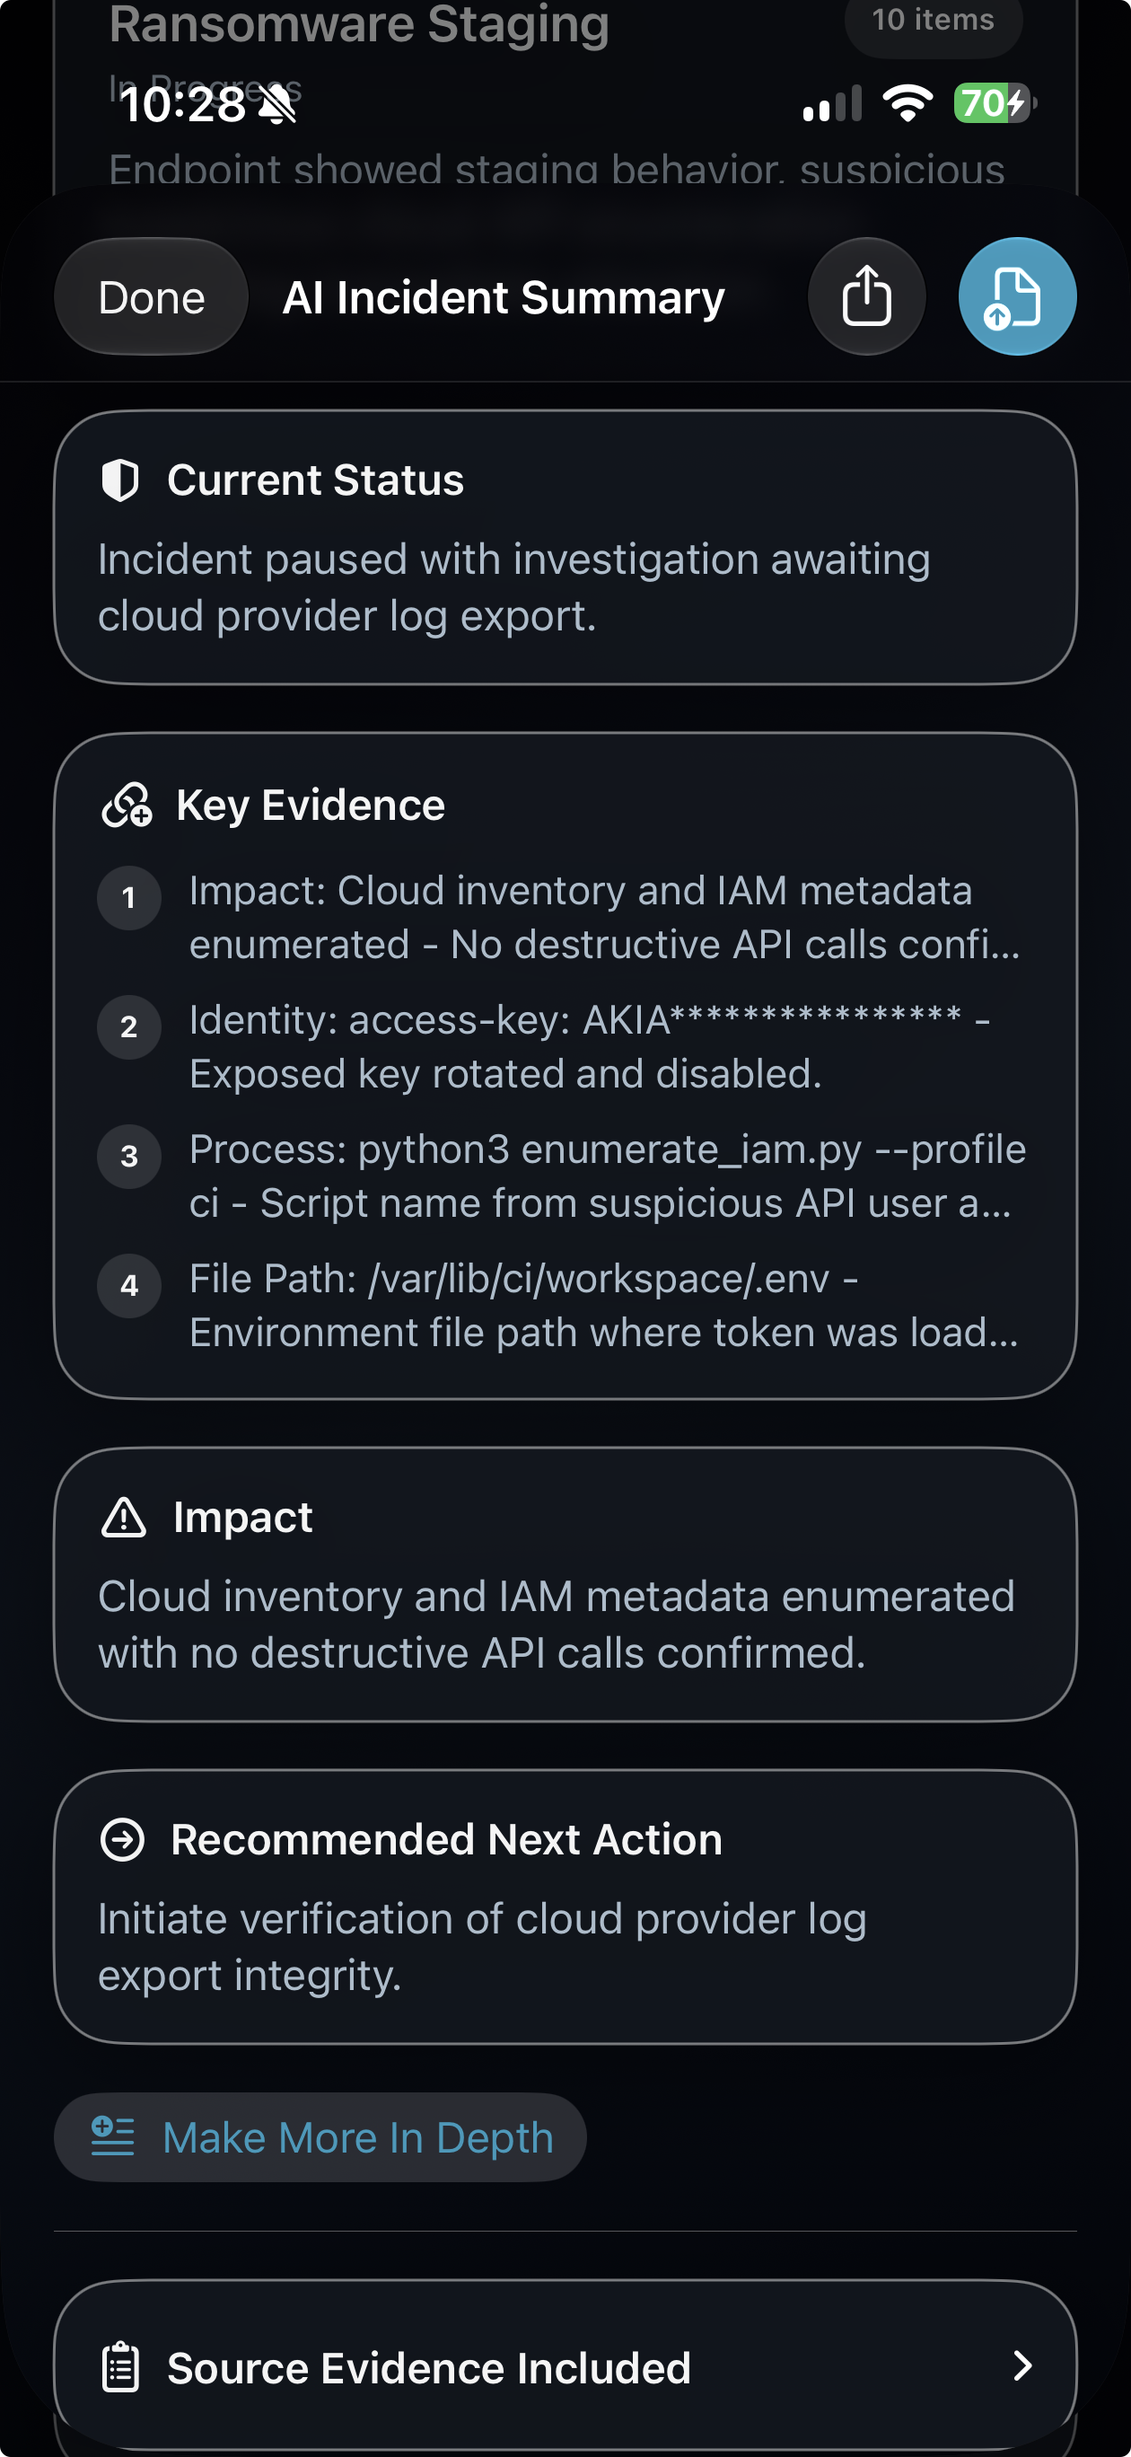
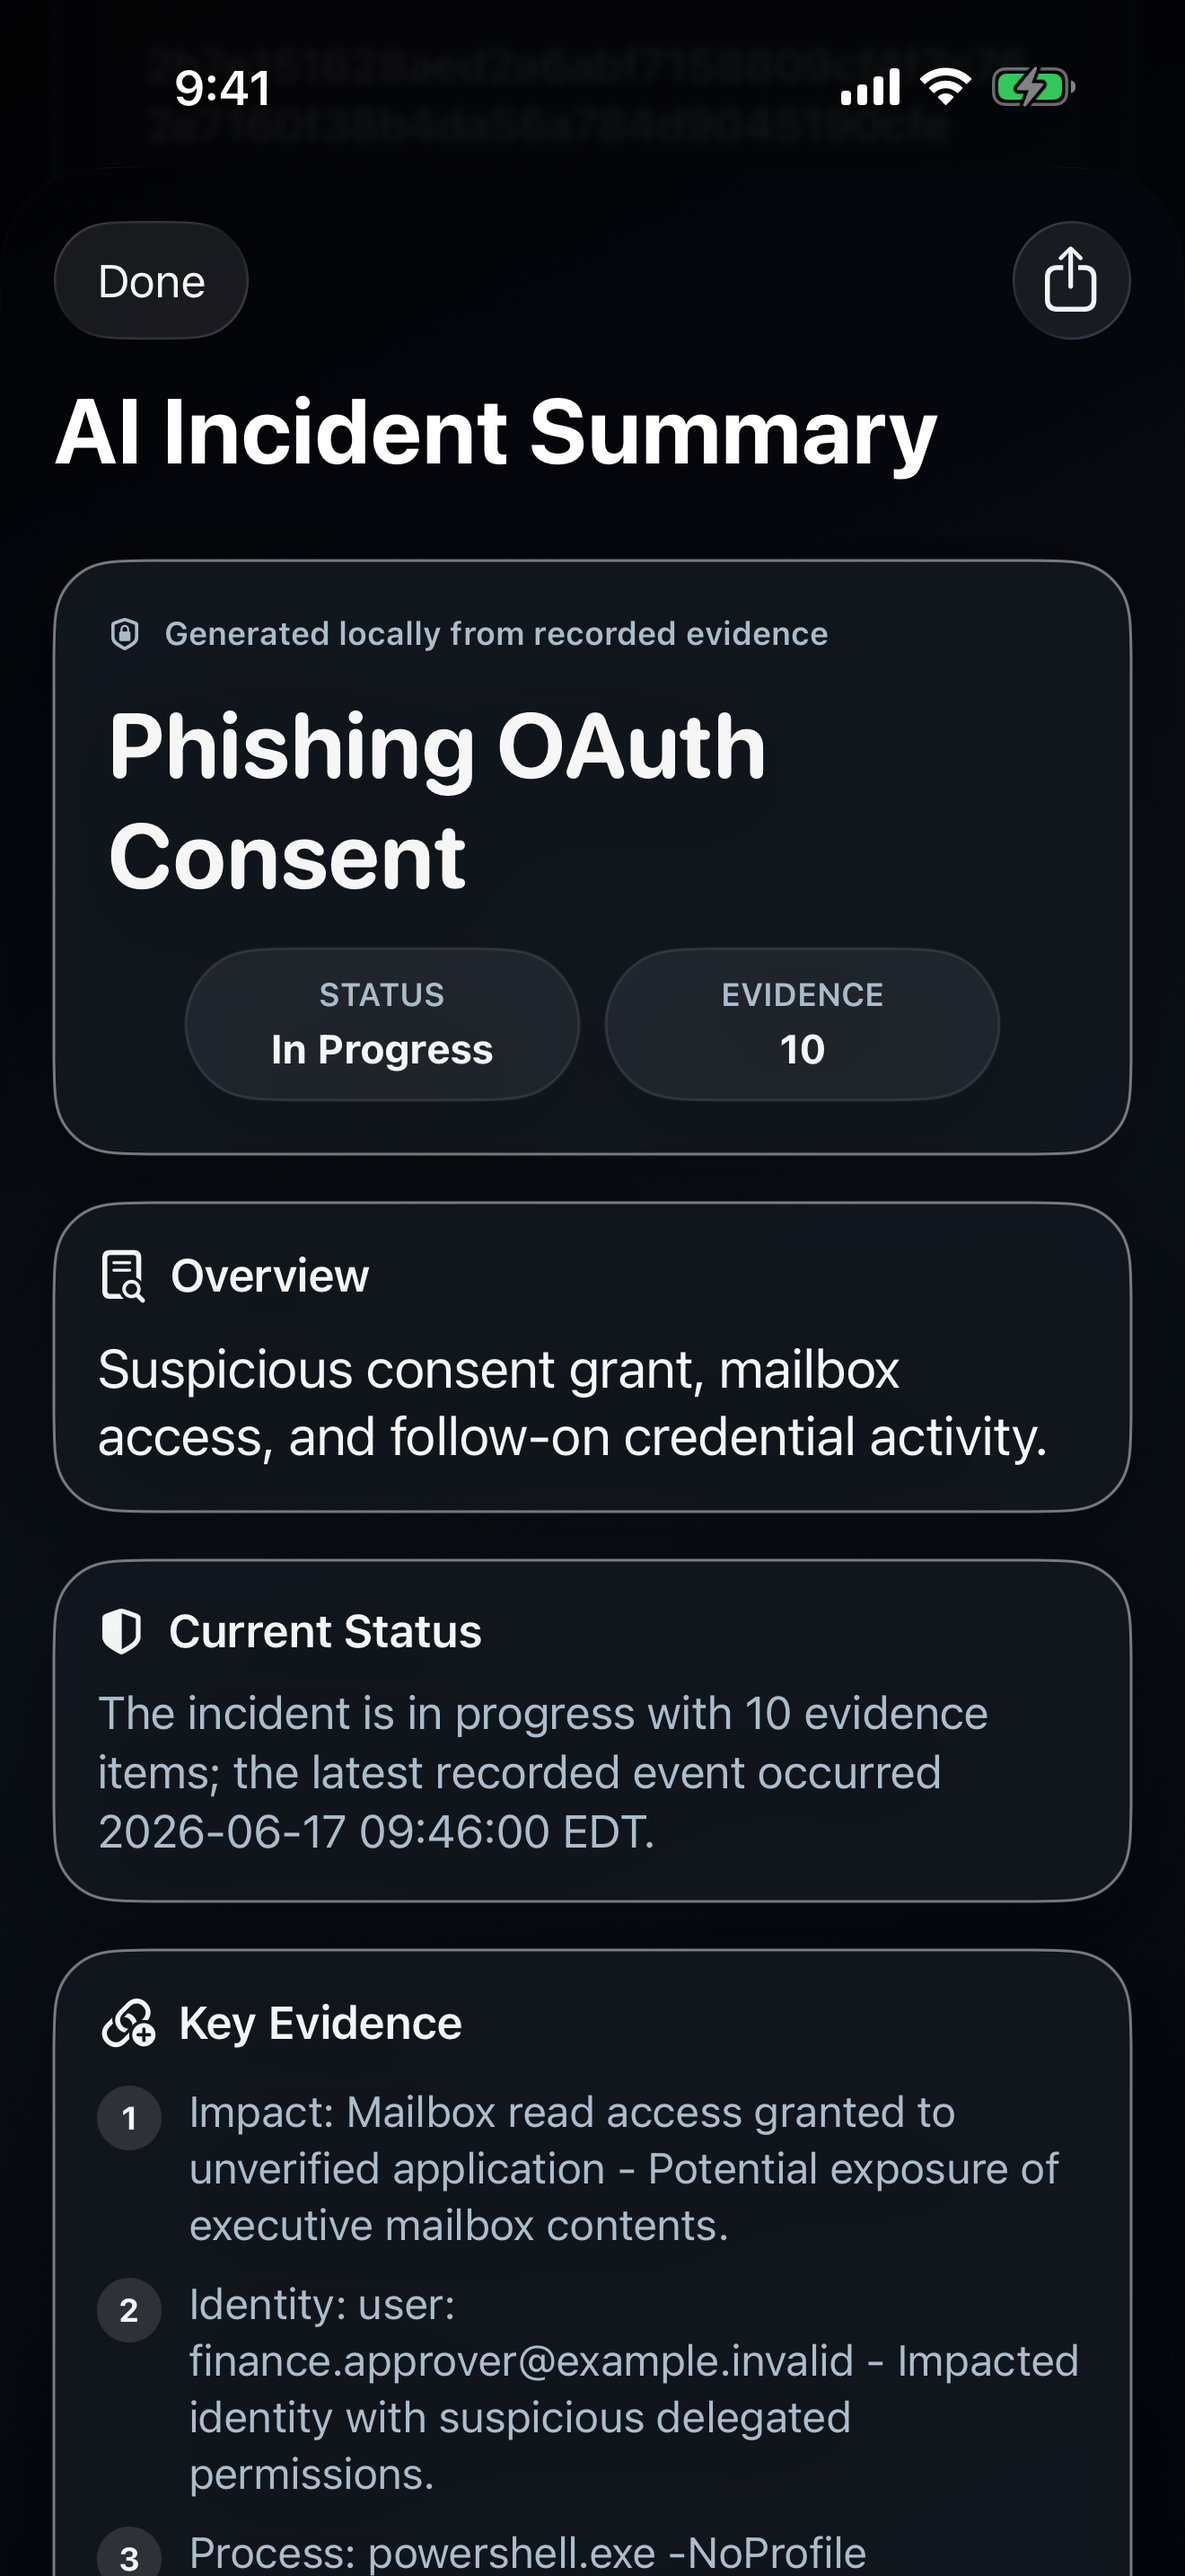
Refresh site screenshots for iPhone and Mac

diff --git a/index.html b/index.html
@@ -29,7 +29,7 @@
         <div class="intro-actions"><span class="availability">Preparing for the App Store</span><a class="text-link" href="#screens">Explore the app <span aria-hidden="true">↗</span></a></div>
         <ul class="trust-list"><li>Local incident workspace</li><li>No account required</li><li>On-device summaries when available</li></ul>
       </div>
-      <div class="intro-preview"><img src="assets/timeline.png" width="1260" height="2736" alt="IR Tracker incident timeline showing indicators and event times for a fictional case"><span>Representative pre-release screen with fictional case data</span></div>
+      <div class="intro-preview"><img src="assets/timeline.png" width="1320" height="2868" alt="IR Tracker timeline map connecting indicators and events for a fictional incident"><span>Pre-release screen with fictional case data</span></div>
     </section>
 
     <section class="feature-band">
@@ -45,7 +45,7 @@
       <div class="steps"><div><span>01</span><h3>Open the incident</h3><p>Capture what is known, what remains uncertain, and its current status.</p></div><div><span>02</span><h3>Build the timeline</h3><p>Add IPs, domains, URLs, hashes, identities, impact observations, and notes as evidence develops.</p></div><div><span>03</span><h3>Review and share</h3><p>Prepare an on-device summary or export a ZIP handoff, timeline CSV, and other reports.</p></div></div>
     </section>
 
-    <section class="screens-band" id="screens"><div class="wrap"><div class="section-heading"><div><p class="eyebrow">Inside the app</p><h2>Built around the investigation</h2></div><p>Real pre-release screens; all case details shown are fictional.</p></div><div class="screen-grid"><figure><img src="assets/incident.png" width="1260" height="1019" loading="lazy" alt="Incident overview and status for a fictional case"><figcaption>Case overview</figcaption></figure><figure><img src="assets/timeline.png" width="1260" height="2736" loading="lazy" alt="Chronological indicator list for a fictional incident"><figcaption>Indicator timeline</figcaption></figure><figure><img src="assets/summary.png" width="1260" height="2736" loading="lazy" alt="On-device incident briefing with status, evidence, impact, and next action"><figcaption>Incident briefing</figcaption></figure></div></div></section>
+    <section class="screens-band" id="screens"><div class="wrap"><div class="section-heading"><div><p class="eyebrow">Inside the app</p><h2>Built around the investigation</h2></div><p>Real pre-release screens; all case details shown are fictional.</p></div><div class="screen-grid"><figure><img src="assets/incident.png" width="1320" height="2868" loading="lazy" alt="iPhone incident queue showing status and evidence counts for fictional cases"><figcaption>Case queue on iPhone</figcaption></figure><figure><img src="assets/timeline.png" width="1320" height="2868" loading="lazy" alt="iPhone timeline map showing evidence connected to a fictional incident"><figcaption>Incident timeline map</figcaption></figure><figure><img src="assets/summary.png" width="1320" height="2868" loading="lazy" alt="iPhone incident briefing with status, evidence, impact, and next action"><figcaption>Incident briefing</figcaption></figure><figure class="mac-screen"><img src="assets/mac-incident.png" width="1440" height="900" loading="lazy" alt="Mac incident workspace with case list and detailed timeline map"><figcaption>Incident workspace on Mac</figcaption></figure></div></div></section>
 
     <section class="section wrap privacy-note"><div><p class="eyebrow">Local by default</p><h2>Sensitive work stays under your control.</h2></div><div><p>IR Tracker stores cases in the app's local workspace. It does not require an account or a developer-hosted incident database. You choose when to export or share a case. Review summaries and exported files before sending them to another destination.</p><a class="text-link" href="privacy.html">Read the privacy policy <span aria-hidden="true">↗</span></a></div></section>
     <section class="closing"><div class="wrap"><h2>Ready for the next investigation.</h2><p>IR Tracker for iPhone, iPad, and Mac is being prepared for release.</p><a href="mailto:cyberirtracker@gmail.com" class="button">Contact support</a></div></section>

diff --git a/styles.css b/styles.css
@@ -50,6 +50,8 @@ h3{font-size:1.12rem;line-height:1.3}
 .screen-grid{display:grid;grid-template-columns:1fr 1fr 1fr;gap:18px}
 figure{margin:0;background:var(--surface);border:1px solid var(--line);border-radius:7px;overflow:hidden}
 figure img{width:100%;aspect-ratio:4/5;object-fit:cover;object-position:top;background:#080a0e}
+figure.mac-screen{grid-column:1/-1}
+figure.mac-screen img{aspect-ratio:16/10;object-fit:contain}
 figcaption{padding:14px 16px;color:#dceaf0;font-weight:700;border-top:1px solid var(--line)}
 .privacy-note{display:grid;grid-template-columns:1fr 1fr;gap:70px}
 .privacy-note p{margin:0 0 20px}
@@ -71,4 +73,4 @@ footer a{color:var(--muted);text-decoration:none}
 .faq h3{margin-bottom:8px}
 .faq p{margin:0}
 @media(max-width:760px){.header-inner{align-items:start;flex-direction:column;padding-block:13px;gap:9px}nav{width:100%;gap:17px}.intro{grid-template-columns:1fr;padding-top:48px;gap:37px}.intro-preview{width:min(400px,100%);height:480px;min-height:0}.feature-grid,.steps,.screen-grid,.privacy-note{grid-template-columns:1fr}.feature-grid article,.feature-grid article+article{border-left:0;border-top:1px solid var(--line);padding:22px 0}.section{padding-block:64px}.steps{gap:27px;margin-top:33px}.screens-band{padding-block:64px}.section-heading{display:block}.section-heading>p{text-align:left;margin-top:16px}.screen-grid{grid-template-columns:repeat(2,minmax(0,1fr))}.screen-grid figure:first-child{grid-column:1/-1}.privacy-note{gap:24px}}
-@media(max-width:480px){.wrap{width:calc(100% - 32px)}.screen-grid{grid-template-columns:1fr}.screen-grid figure:first-child{grid-column:auto}figure img{aspect-ratio:4/4}.intro-preview{height:430px}nav{gap:13px}nav a{font-size:.84rem}}
+@media(max-width:480px){.wrap{width:calc(100% - 32px)}.screen-grid{grid-template-columns:1fr}.screen-grid figure:first-child{grid-column:auto}figure img{aspect-ratio:4/4}.mac-screen img{aspect-ratio:16/10}.intro-preview{height:430px}nav{gap:13px}nav a{font-size:.84rem}}

diff --git a/README.md b/README.md
@@ -13,4 +13,4 @@ Before submission, verify the resulting HTTPS URLs for `/support.html` and
 after configuring a custom domain. Replace representative screenshots with
 final release captures and add the App Store link once the listing is live.
 
-The screenshots show fictional test incidents from a pre-release build.
+The screenshots show fictional test incidents from a pre-release build. The featured images were refreshed from iPhone and Mac captures on September 22, 2026. App Store upload originals remain in the app repository under `AppStoreAssets/screenshots`.
